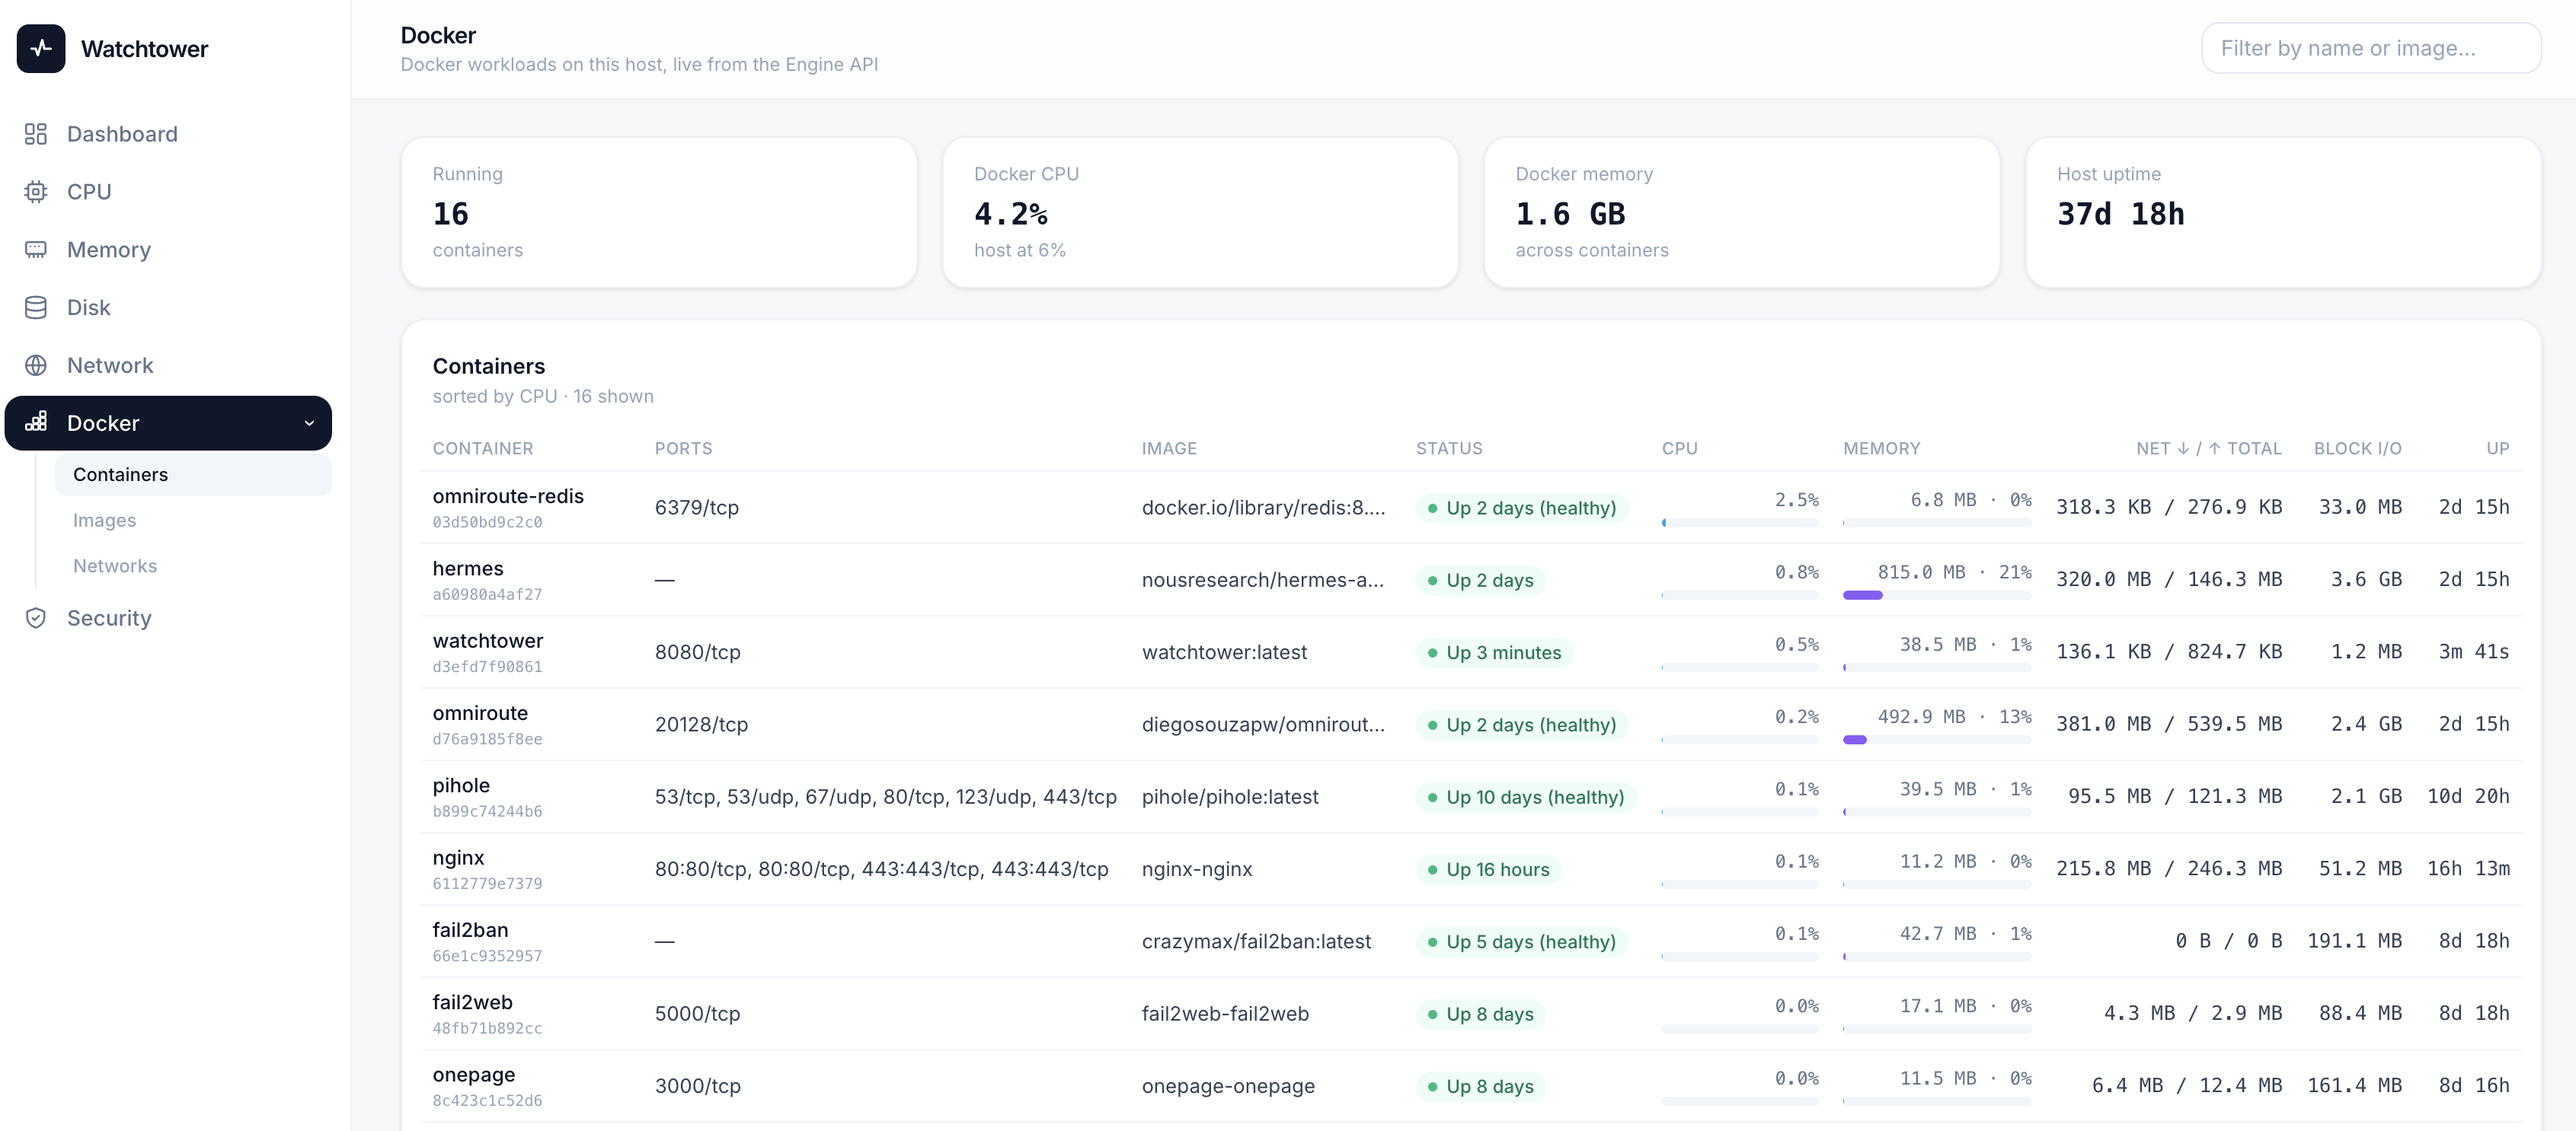
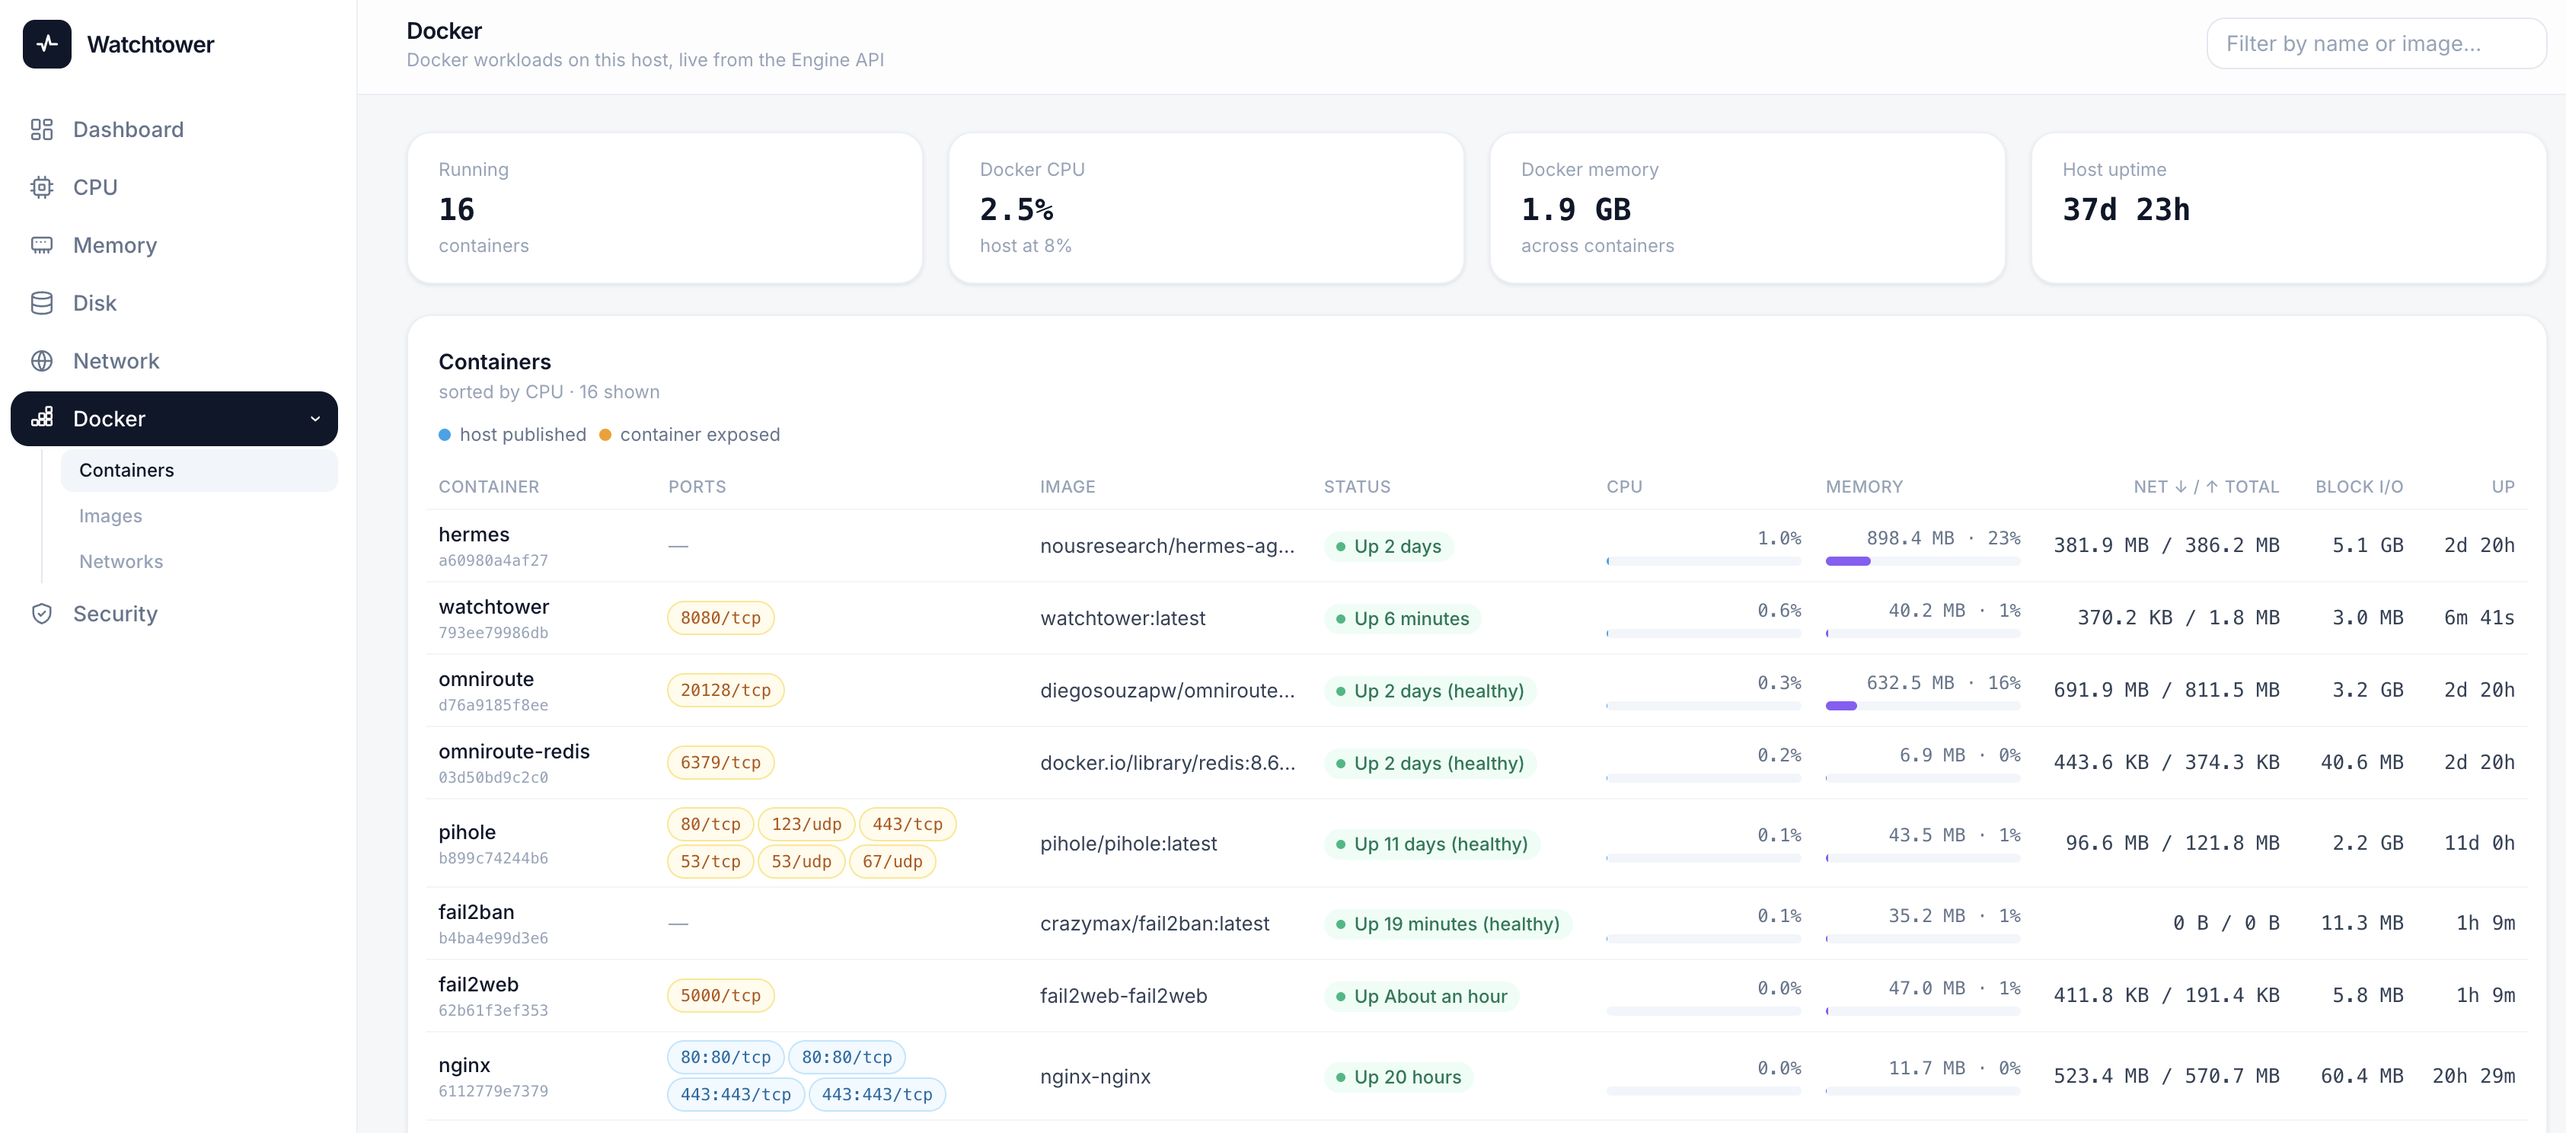
fix

diff --git a/web/src/pages/SecurityPage.tsx b/web/src/pages/SecurityPage.tsx
@@ -2,4 +2,4 @@ import { useEffect, useState } from "react";
 import { Layout } from "../components/Layout";
 import { LoadingBlock, TableCard } from "../components/ui";
 function Block({title, rows, error}:{title:string;rows:string[];error?:string}){return <TableCard title={title} subtitle={error?`Unavailable: ${error}`:"read-only host data"}><div className="max-h-72 overflow-auto px-2"><ul className="space-y-1 text-xs text-ink-600">{rows.length?rows.map((r,i)=><li key={i} className="rounded bg-ink-50 px-2 py-1 font-mono break-all">{r}</li>):<li className="text-ink-400">No data returned.</li>}</ul></div></TableCard>}
-export function SecurityPage(){const [d,setD]=useState<any>(); const [error,setError]=useState(""); useEffect(()=>{fetch("/api/security",{credentials:"same-origin"}).then(r=>r.ok?r.json():Promise.reject()).then(setD).catch(()=>setError("Security data unavailable."));},[]); if(error)return <Layout title="Security"><div className="card p-5 text-sm text-rose-600">{error}</div></Layout>; if(!d)return <Layout title="Security"><LoadingBlock/></Layout>; return <Layout title="Security" subtitle="read-only firewall, SSH, and listening socket visibility"><div className="grid gap-5 lg:grid-cols-2"><div className="card p-5"><div className="flex flex-wrap items-center justify-between gap-3"><div><h2 className="font-semibold text-ink-900">Security overview</h2><p className="mt-1 text-xs text-ink-500">No changes or actions are performed.</p></div><span className="rounded-full bg-emerald-50 px-2 py-1 text-xs text-emerald-700">Read-only</span></div><div className="mt-5 grid grid-cols-2 gap-3"><div><div className="text-xs text-ink-400">Failed auth signals</div><div className="mt-1 font-mono text-xl font-semibold text-rose-600">{d.signals.failed_auth.length}</div></div><div><div className="text-xs text-ink-400">Accepted auth signals</div><div className="mt-1 font-mono text-xl font-semibold text-emerald-600">{d.signals.accepted_auth.length}</div></div></div></div><Block title="UFW status" rows={(d.firewall.ufw.output || "").split("\\n").filter(Boolean)} error={d.firewall.ufw.error}/><Block title="iptables rules" rows={d.firewall.iptables.rules} error={d.firewall.iptables.error}/><Block title="nftables rules" rows={d.firewall.nftables.rules} error={d.firewall.nftables.error}/><Block title="Listening sockets" rows={d.listeners.lines} error={d.listeners.error}/><Block title="SSH configuration" rows={d.ssh.config}/><Block title="Recent authentication log" rows={d.ssh.auth_log}/></div></Layout>}
+export function SecurityPage(){const [d,setD]=useState<any>(); const [error,setError]=useState(""); useEffect(()=>{fetch("/api/security",{credentials:"same-origin"}).then(r=>r.ok?r.json():Promise.reject()).then(setD).catch(()=>setError("Security data unavailable."));},[]); if(error)return <Layout title="Security"><div className="card p-5 text-sm text-rose-600">{error}</div></Layout>; if(!d)return <Layout title="Security"><LoadingBlock/></Layout>; return <Layout title="Security" subtitle="read-only firewall, SSH, and listening socket visibility"><div className="grid gap-5 lg:grid-cols-2"><div className="card p-5"><div className="flex flex-wrap items-center justify-between gap-3"><div><h2 className="font-semibold text-ink-900">Security overview</h2><p className="mt-1 text-xs text-ink-500">No changes or actions are performed.</p></div><span className="rounded-full bg-emerald-50 px-2 py-1 text-xs text-emerald-700">Read-only</span></div><div className="mt-5 grid grid-cols-2 gap-3"><div><div className="text-xs text-ink-400">Failed auth signals</div><div className="mt-1 font-mono text-xl font-semibold text-rose-600">{d.signals.failed_auth.length}</div></div><div><div className="text-xs text-ink-400">Accepted auth signals</div><div className="mt-1 font-mono text-xl font-semibold text-emerald-600">{d.signals.accepted_auth.length}</div></div></div></div><Block title="UFW status" rows={(d.firewall.ufw.output || "").split("\n").filter(Boolean)} error={d.firewall.ufw.error}/><Block title="iptables rules" rows={d.firewall.iptables.rules} error={d.firewall.iptables.error}/><Block title="nftables rules" rows={d.firewall.nftables.rules} error={d.firewall.nftables.error}/><Block title="Listening sockets" rows={d.listeners.lines} error={d.listeners.error}/><Block title="SSH configuration" rows={[...(d.ssh.process?[`running: ${d.ssh.process}`]:[]), ...(d.ssh.config||[])]} error={d.ssh.config_error}/><Block title="Recent authentication log" rows={d.ssh.auth_log}/></div></Layout>}

diff --git a/app/security.py b/app/security.py
@@ -1,8 +1,10 @@
 """Read-only host security facts for the Security page."""
 from __future__ import annotations
+import ipaddress
 import os
 import re, subprocess, time
 from pathlib import Path
+from . import hostnet
 from .config import config
 ROOT = Path(config.host_root or "/")
 def _run(command: list[str], timeout: float = 4, env: dict[str, str] | None = None) -> tuple[str, str | None]:
@@ -35,44 +37,99 @@ def _ufw_status() -> tuple[str, str | None]:
     status = "active" if "ENABLED=yes" in conf else "inactive"
     readable=[]
     policies = []
+    policy_words = {"ACCEPT": "allow", "DROP": "deny", "REJECT": "deny", "REFUSE": "deny"}
     for line in defaults.splitlines():
-        match = re.match(r"DEFAULT_(INPUT|OUTPUT|FORWARD)_POLICY=(\w+)", line)
-        if match: policies.append(f"default {match.group(1).lower()}: {match.group(2).lower()}")
+        # /etc/default/ufw quotes the values: DEFAULT_INPUT_POLICY="DROP"
+        match = re.match(r'DEFAULT_(INPUT|OUTPUT|FORWARD)_POLICY="?(\w+)"?', line)
+        if match:
+            word = policy_words.get(match.group(2).upper(), match.group(2).lower())
+            policies.append(f"default {match.group(1).lower()}: {word}")
     for line in rules.splitlines():
-        match=re.search(r"--dport\s+(\d+)(?:\s+-m multiport)?", line)
-        if match and "ACCEPT" in line: readable.append(f"allow tcp {match.group(1)}")
-        match=re.search(r"--dports\s+([0-9,:]+)", line)
-        if match and "ACCEPT" in line: readable.append(f"allow tcp {match.group(1)}")
+        if "ACCEPT" not in line: continue
+        pmatch = re.search(r"-p\s+(tcp|udp)", line, re.I)
+        proto = pmatch.group(1).lower() if pmatch else "tcp"
+        match=re.search(r"--dports?\s+([0-9][0-9,:-]*)", line)
+        if match: readable.append(f"allow {proto} {match.group(1)}")
     return f"Status: {status}\n" + ("\n".join(dict.fromkeys(policies + readable)) if (policies or readable) else "No readable user port rules found."), re_ if not rules else None
 def _matches(rows: list[str], pattern: str): return [r for r in rows if re.search(pattern,r,re.I)]
+def _hex_addr(addr: str) -> str:
+    """Decode a /proc/net hex address (little-endian 32-bit words) to readable form."""
+    try:
+        if len(addr) == 8:
+            return ".".join(str(b) for b in bytes.fromhex(addr)[::-1])
+        if len(addr) == 32:
+            words = (addr[i:i+8] for i in range(0, 32, 8))
+            raw = b"".join(bytes.fromhex(w)[::-1] for w in words)
+            return str(ipaddress.IPv6Address(raw))
+    except ValueError: pass
+    return addr
 def _parse_proc_net_listeners() -> tuple[list[str], str | None]:
-    """Parse /proc/net/tcp|tcp6|udp|udp6 for LISTEN sockets."""
+    """LISTEN sockets in the HOST network namespace.
+
+    GOTCHA: /proc/net is a symlink to /proc/self/net, which the kernel resolves
+    in the *reader's* namespace — reading /host/proc/net/tcp from inside the
+    container yields the container's own sockets. hostnet._proc() routes
+    through /proc/1/net (host init, shared PID namespace) when mounted.
+    """
     lines=[]
     for proto in ["tcp", "tcp6", "udp", "udp6"]:
+        listen_states = {"0A"} if proto.startswith("tcp") else {"07"}
         try:
-            with _host(f"/proc/net/{proto}").open() as fh:
+            with open(hostnet._proc("net", proto)) as fh:
                 for row in fh:
                     f=row.split()
-                    if len(f)<10: continue
-                    st=f[3]
-                    if proto.startswith("tcp") and st!="0A": continue
+                    if len(f)<10 or f[3] not in listen_states: continue
                     local=f[1]
                     if ":" not in local: continue
                     addr,port=local.rsplit(":",1)
                     if not port: continue
-                    port=int(port,16)
-                    if proto.startswith("tcp"):
-                        if addr=="00000000": addr="0.0.0.0"
-                        elif addr=="00000000000000000000000000000000": addr="::"
-                    else:
-                        if addr=="00000000": addr="0.0.0.0"
-                        elif len(addr)==32: addr=":".join(addr[i:i+4] for i in range(0,32,4))
-                    lines.append(f"{proto.upper()} LISTEN {addr}:{port}")
+                    try: port=int(port,16)
+                    except ValueError: continue
+                    lines.append(f"{proto.upper()} LISTEN {_hex_addr(addr)}:{port}")
         except OSError: pass
-    return lines, None if lines else "No listening sockets found in /proc/net"
+    return lines, None if lines else "No listening sockets found in the host network namespace."
 
+def _ssh_config() -> tuple[list[str], str | None]:
+    """Effective sshd settings: main file plus any Include'd drop-ins.
+
+    Ubuntu's stock sshd_config is mostly `Include /etc/ssh/sshd_config.d/*.conf`,
+    so reading only the main file shows defaults, not the real port/auth config.
+    """
+    try: raw = _host("/etc/ssh/sshd_config").read_text(errors="replace")
+    except OSError as exc: return [], str(exc)
+    lines: list[str] = []
+    includes: list[str] = []
+    for line in raw.splitlines():
+        s = line.strip()
+        if not s or s.startswith("#"): continue
+        lines.append(s)
+        match = re.match(r"Include\s+(.+)$", s, re.I)
+        if match: includes += match.group(1).split()
+    for pattern in includes:
+        path = _host(pattern) if pattern.startswith("/") else _host(f"/etc/ssh/{pattern}")
+        try: files = sorted(path.parent.glob(path.name))
+        except OSError: continue
+        for f in files:
+            try: text = f.read_text(errors="replace")
+            except OSError: continue
+            for line in text.splitlines():
+                s = line.strip()
+                if s and not s.startswith("#"): lines.append(f"{f.name}: {s}")
+    return lines, None
+def _sshd_process() -> str | None:
+    """cmdline of a running sshd, found via the shared host PID namespace."""
+    try: pids = [p for p in os.listdir(config.proc_path) if p.isdigit()]
+    except OSError: return None
+    for pid in pids:
+        try:
+            with open(os.path.join(config.proc_path, pid, "comm")) as fh:
+                if fh.read().strip() != "sshd": continue
+            with open(os.path.join(config.proc_path, pid, "cmdline"), "rb") as fh:
+                cmd = fh.read().replace(b"\x00", b" ").decode(errors="replace").strip()
+            return cmd or "sshd"
+        except OSError: continue
+    return None
 def snapshot() -> dict:
     ufw, ufwe = _ufw_status(); ipt, ipte = _file("/etc/ufw/user.rules"); nft, nfte = _file("/etc/nftables.conf"); sockets, socketse = _parse_proc_net_listeners(); auth=_tail(["/var/log/auth.log","/var/log/secure"])
-    try: ssh=[x.strip() for x in _host("/etc/ssh/sshd_config").read_text(errors="replace").splitlines() if x.strip() and not x.lstrip().startswith("#")]
-    except OSError: ssh=[]
-    return {"collected_at":time.time(),"read_only":True,"firewall":{"ufw":{"output":ufw,"error":ufwe},"iptables":{"rules":ipt.splitlines()[:80],"error":ipte},"nftables":{"rules":nft.splitlines()[:80],"error":nfte}},"ssh":{"auth_log":auth,"config":ssh},"listeners":{"lines":sockets[:100],"error":socketse},"signals":{"failed_auth":_matches(auth,r"failed password|authentication failure|invalid user"),"accepted_auth":_matches(auth,r"accepted (password|publickey)")}}
+    ssh, ssh_err = _ssh_config(); sshd_proc = _sshd_process()
+    return {"collected_at":time.time(),"read_only":True,"firewall":{"ufw":{"output":ufw,"error":ufwe},"iptables":{"rules":ipt.splitlines()[:80],"error":ipte},"nftables":{"rules":nft.splitlines()[:80],"error":nfte}},"ssh":{"auth_log":auth,"config":ssh,"config_error":ssh_err,"process":sshd_proc},"listeners":{"lines":sockets[:100],"error":socketse},"signals":{"failed_auth":_matches(auth,r"failed password|authentication failure|invalid user"),"accepted_auth":_matches(auth,r"accepted (password|publickey)")}}

diff --git a/README.md b/README.md
@@ -13,6 +13,8 @@ time-range selectors and live-updating charts.
 
 ![Docker page](docs/screenshots/docker.png)
 
+![Network page](docs/screenshots/net.png)
+
 ![Memory page](docs/screenshots/mem.png)
 
 ## Features
